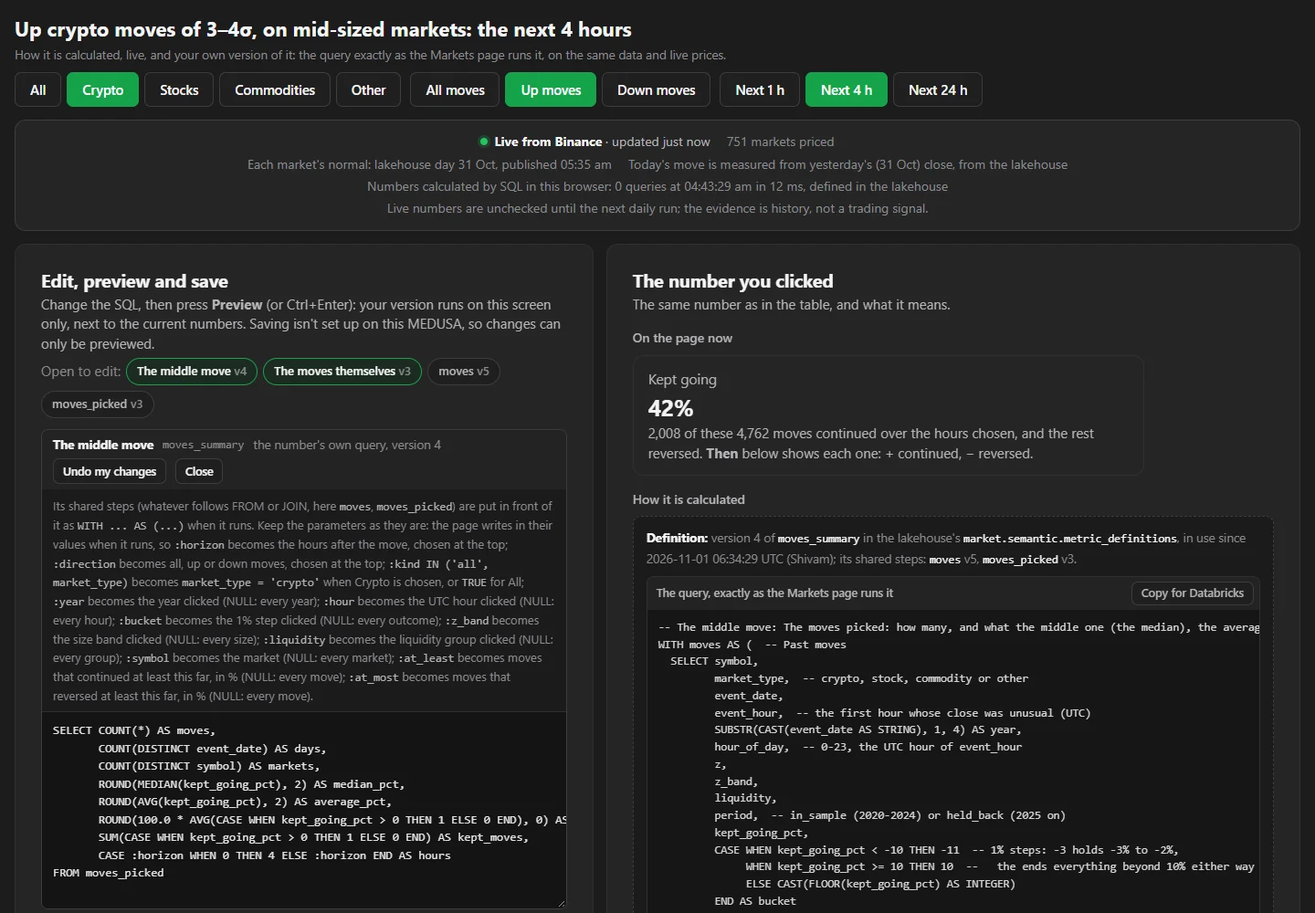
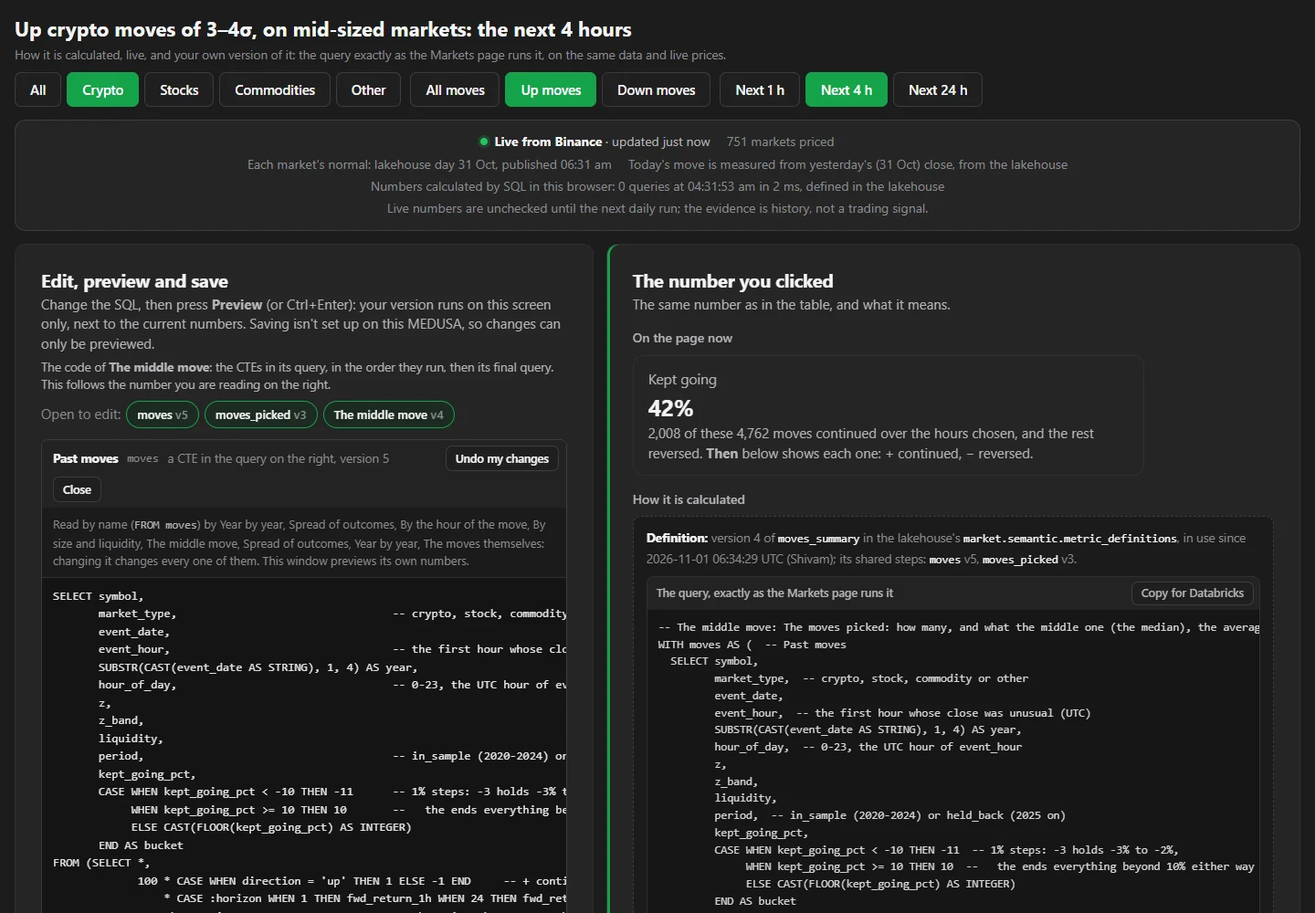
Markets: a Bad day column, and a window's editor shows only the query beside it

Changed region(s): [[0.0312, 0.372, 0.4375, 1.0], [0.2812, 0.186, 0.7188, 0.217], [0.3125, 0.806, 0.4062, 0.837]]

diff --git a/public/markets.js b/public/markets.js
@@ -24,7 +24,7 @@
 // Each ‹› button opens one number's or graph's calculation in its own window (markets-window.html):
 // the same code with its own data, engine and live prices, running only that window's queries.
 
-import { DEFINITIONS } from './markets-metrics.js?v=12';
+import { DEFINITIONS } from './markets-metrics.js?v=13';
 import { chartHtml, chartColumns, drillAttrs } from './markets-charts.js?v=4';
 
 const RULE = { z: 3 };
@@ -269,7 +269,7 @@ const S = {
   win: null,                                         // in a ‹› window: {panel, ids, symbol}
   // A window's editor: definition id -> the text typed in its box; the ids whose box is open; the
   // edits being previewed (id -> SQL, or null); why a preview didn't start or stopped.
-  edit: { text: new Map(), open: [], live: null, since: 0, note: null, hist: new Map() },
+  edit: { for: null, text: new Map(), open: [], live: null, since: 0, note: null, hist: new Map() },
   painted: 0, paintTimer: 0, html: new Map(),
 };
 
@@ -802,7 +802,7 @@ function editBox(id) {
   const text = S.edit.text.has(id) ? S.edit.text.get(id) : d.sql;
   const rows = Math.min(30, Math.max(6, text.split('\n').length + 1));
   return `<div class="mkt-edit-box${edited(id) ? ' changed' : ''}" data-box="${esc(id)}">
-    <div class="h"><b>${esc(d.name)}</b><code>${esc(id)}</code><span class="faint">${d.kind === 'model' ? 'a shared step' : 'the number\'s own query'}${d.own ? `, your own version ${d.own.version}` : d.version ? `, version ${d.version}` : ''}</span><span class="sp"></span>
+    <div class="h"><b>${esc(d.name)}</b><code>${esc(id)}</code><span class="faint">${d.kind === 'model' ? 'a CTE in the query on the right' : 'the final query on the right'}${d.own ? `, your own version ${d.own.version}` : d.version ? `, version ${d.version}` : ''}</span><span class="sp"></span>
       ${SRC.mine.canSave && d.from === 'lakehouse' ? `<button class="btn btn-sm" type="button" data-mkt="edit-history" data-def="${esc(id)}">History</button>` : ''}
       <button class="btn btn-sm" type="button" data-mkt="edit-undo" data-def="${esc(id)}">Undo my changes</button>
       <button class="btn btn-sm" type="button" data-mkt="edit-close" data-def="${esc(id)}">Close</button></div>
@@ -875,19 +875,50 @@ function paintEditors() {
   if (el) el.innerHTML = S.edit.open.map(editBox).join('');
 }
 
-/** The definitions a window can edit: its numbers' own queries, then the shared steps they read. */
-function editable() {
-  const out = [...S.win.ids];
-  for (const id of S.win.ids) { try { for (const m of modelsOf(DEFS.get(id).sql)) if (!out.includes(m)) out.push(m); } catch { /* shown when previewed */ } }
-  return out;
+/** What the left side shows for a number: the CTEs in its query, in the order the query on the right
+ * runs them, then its final query. Nothing else. */
+function partsOf(id) {
+  const defs = previewDefs() || DEFS;
+  try { return [...modelsOf(defs.get(id).sql, defs), id]; } catch { return [id]; }   // the problem shows when previewed
+}
+
+/** The left side moves to another number on the right. Changes in the boxes it leaves are kept. */
+function editNumber(id) {
+  if (!S.win || id === S.edit.for || !S.win.ids.includes(id)) return;
+  S.edit.for = id;
+  S.edit.open = partsOf(id);
+  paintEditors();
+  paintEditBar();
+  markNumber();
+}
+
+/** With several numbers on the right, the one the left side is showing. */
+function markNumber() {
+  if (S.win.ids.length < 2) return;
+  document.querySelectorAll('[data-win-id]').forEach((c) => c.classList.toggle('mkt-win-cur', c.dataset.winId === S.edit.for));
+}
+
+/** Side by side, the left side follows the number being read on the right. Never while typing, and not
+ * when the editor is above the results, where changing it would move what is being read. */
+function followScroll() {
+  if (!S.win || S.win.ids.length < 2 || S.edit.scrolling || !matchMedia('(min-width: 1100px)').matches) return;
+  S.edit.scrolling = true;
+  requestAnimationFrame(() => {
+    S.edit.scrolling = false;
+    if (document.activeElement && document.activeElement.matches('#mkt-edit-boxes textarea')) return;
+    const line = innerHeight * 0.4;
+    const card = [...document.querySelectorAll('[data-win-id]')].find((c) => { const r = c.getBoundingClientRect(); return r.top <= line && r.bottom > line; });
+    if (card) editNumber(card.dataset.winId);
+  });
 }
 
 function paintEditBar() {
-  const chips = editable().map((id) => {
+  const chips = partsOf(S.edit.for).map((id) => {
     const d = DEFS.get(id), open = S.edit.open.includes(id);
     return `<button class="mkt-chip" type="button" data-mkt="edit-open" data-def="${esc(id)}" aria-pressed="${open}">${esc(d.kind === 'model' ? id : d.name)}${d.own ? ` <span class="faint">own v${d.own.version}</span>` : d.version ? ` <span class="faint">v${d.version}</span>` : ''}${edited(id) ? ' <span class="mkt-dirty" title="Changed">●</span>' : ''}</button>`;
   }).join('');
   put('mkt-edit-pick', `<span class="faint">Open to edit:</span>${chips}`);
+  put('mkt-edit-for', `The code of <b>${esc(DEFS.get(S.edit.for).name)}</b>: the CTEs in its query, in the order they run, then its final query.${S.win.ids.length > 1 ? ' This follows the number you are reading on the right.' : ''}`);
   const live = S.edit.live;
   const note = S.edit.note;
   put('mkt-edit-status', live
@@ -1182,6 +1213,9 @@ table.mkt-result td, table.mkt-result th { white-space: nowrap; font-family: ui-
   .mkt-edit { position: sticky; top: 12px; max-height: calc(100vh - 24px); overflow: auto; }
 }
 .mkt-edit .card-head { margin-bottom: 10px; }
+.mkt-edit-for { margin: 0 0 8px; font-size: 13.5px; color: var(--text-2); }
+.mkt-win-cur { box-shadow: inset 3px 0 0 var(--green-btn); }
+@media (min-width: 1100px) { .mkt-win-pick { display: none; } }
 .mkt-edit-pick { display: flex; flex-wrap: wrap; gap: 6px; align-items: center; }
 .mkt-chip { height: 30px; padding: 0 11px; border-radius: 99px; border: 1px solid var(--border-2); background: #1f1f1f; color: var(--text-2); font-size: 13px; font-weight: 600; }
 .mkt-chip:hover { color: var(--text); }
@@ -1526,7 +1560,7 @@ function paintAll() {
     vol: (r) => (iVol < 0 ? 0 : num(r[iVol], -1)),
   }[S.sort];
   rows = [...rows].sort((a, b) => key(b) - key(a) || (iSym < 0 ? 0 : String(a[iSym]).localeCompare(String(b[iSym]))));
-  put('mkt-all-sub', `${rows.length} ${KIND_WORD[S.kind]}markets${S.q ? ` matching “${esc(S.q)}”` : ''}; z is today's move in the market's usual daily moves (σ); volume is the last 24 hours against its usual day`);
+  put('mkt-all-sub', `${rows.length} ${KIND_WORD[S.kind]}markets${S.q ? ` matching “${esc(S.q)}”` : ''}; z is today's move in the market's usual daily moves (σ); a bad day is how far it fell on 1 day in 20; volume is the last 24 hours against its usual day`);
   if (!rows.length) { put('mkt-all', '<div class="mkt-empty">No market matches.</div>'); return; }
   const shown = { columns: res.columns, rows: rows.slice(0, S.limit) };
   const table = resultTable(shown, DEFS.get('markets'), {
@@ -1575,6 +1609,7 @@ function marketDetail(sym) {
     html = `<p>${who}: not scored yet${l ? ', yesterday\'s close is missing' : ', no live price yet'}.</p>`;
   } else {
     html = `<p>${who} has moved ${pct(r.today_pct / 100)} since yesterday's close${r.z != null ? `: ${sig(r.z)}, ${Math.abs(r.z).toFixed(1)} times its usual daily move (${Number(r.usual_day_pct).toFixed(2)}%${b ? ` over its last ${b.history_days} days` : ''})` : ''}.${r.direction ? ` Its own group: ${kindPhrase(r.direction, r.z_band, r.liquidity)}${b ? ` (average ${Math.round((b.avg_quote_volume_30d || 0) / 1e6).toLocaleString('en-US')} million USDT a day)` : ''}.` : ''}</p>`;
+    if (r.bad_day_pct != null) html += `<p>A bad day for ${name(sym)} is ${pct(r.bad_day_pct / 100)}: on 1 day in 20 it fell further, judged by its last 30 days. It's a guide for sizing a position, not a limit: days past it typically went 1.3 times as far, and bad days tend to hit many markets at once.</p>`;
     if (r.direction) {
       if (t && !['crypto', 'other'].includes(t.group)) {
         html += `<p class="warn">${name(sym)} is a ${esc(t.group)} perpetual, so this move is <b>not tested</b>. Binance only listed these from December 2025, which leaves no 2020–2024 years to choose a side on, and crypto's patterns can't be assumed to carry over. Insights shows how past moves on these markets went, with the type chosen at the top.</p>`;
@@ -1790,6 +1825,7 @@ function windowShell() {
     <section class="card mkt-edit" aria-label="Edit and preview">
       <div class="card-head"><div><h2>Edit, preview and save</h2><p>Change the SQL, then press <b>Preview</b> (or Ctrl+Enter): your version runs on this screen only, next to the current numbers. <span id="mkt-edit-saves"></span></p></div>
         <button class="btn btn-sm" type="button" data-mkt="defs-reload" hidden title="Read the definitions in use from the lakehouse now, for a change made in Databricks itself">Reload definitions from the lakehouse</button></div>
+      <p class="mkt-edit-for" id="mkt-edit-for"></p>
       <div class="mkt-edit-pick" id="mkt-edit-pick"></div>
       <div id="mkt-edit-boxes"></div>
       <div class="mkt-edit-bar">
@@ -1803,8 +1839,8 @@ function windowShell() {
     </section>
     <div class="mkt-win-out">
       ${ids.map((id, i) => `
-      <section class="card">
-        <div class="card-head"><div>${named ? `<h2 id="mkt-win-name-${i}"></h2>` : ''}<p id="mkt-win-what-${i}"></p></div></div>
+      <section class="card" data-win-id="${esc(id)}">
+        <div class="card-head"><div>${named ? `<h2 id="mkt-win-name-${i}"></h2>` : ''}<p id="mkt-win-what-${i}"></p></div>${ids.length > 1 ? `<button class="btn btn-sm mkt-win-pick" type="button" data-mkt="edit-for" data-def="${esc(id)}">Edit this query</button>` : ''}</div>
         <div id="mkt-win-shown-${i}"></div>
         <h3 class="mkt-win-h">How it is calculated</h3>
         <div class="mkt-src"><div id="mkt-win-head-${i}"></div><div id="mkt-win-live-${i}" class="mkt-hold"></div></div>
@@ -1917,8 +1953,9 @@ function paintWindow() {
   // The editor's boxes are drawn when the definitions arrive (and again if they change, unless the
   // person is typing in one).
   const typing = document.activeElement && document.activeElement.matches('#mkt-edit-boxes textarea');
-  if (S.edit.painted !== S.data.at && !typing) { S.edit.painted = S.data.at; paintEditors(); }
+  if (S.edit.painted !== S.data.at && !typing) { S.edit.painted = S.data.at; S.edit.open = partsOf(S.edit.for); paintEditors(); }
   paintEditBar();
+  markNumber();
   if (panel === 'patterns') put('mkt-win-pat', patternSources());
   ids.forEach((id, i) => {
     const key = winKey(id), d = DEFS.get(id), extra = id === 'market' ? { symbol } : {};
@@ -2205,6 +2242,7 @@ function onEdit(act, id, el) {
   if (act === 'defs-reload') { reloadDefs(); return; }
   if (!DEFS.has(id)) return;
   if (act === 'edit-giveup') { giveUp(id); return; }
+  if (act === 'edit-for') { editNumber(id); document.getElementById('mkt-edit-for').scrollIntoView({ block: 'center' }); return; }
   if (act === 'edit-history') { loadHistory(id); return; }
   if (act === 'edit-hist-close') { S.edit.hist.delete(id); paintHist(id); return; }
   if (act === 'edit-reuse') { reuseVersion(id, el.dataset.scope, Number(el.dataset.v)); return; }
@@ -2342,7 +2380,9 @@ export function renderWindow(el, appApi, { panel, symbol = null, kind = 'all', p
   S.kind = validKind(kind);
   S.dir = validDir(params.dir);
   S.hz = validHz(params.hz);
-  S.edit.open = [...S.win.ids];   // the number's own query is ready to edit
+  S.edit.for = S.win.ids[0];
+  S.edit.open = partsOf(S.edit.for);   // the code of the number on the right is ready to edit
+  addEventListener('scroll', followScroll, { passive: true });
   attach(el);
   // Closing the window, or reloading it, asks first while there are changes (nothing is saved).
   addEventListener('beforeunload', (e) => { if ([...S.edit.text.keys()].some(edited)) { e.preventDefault(); e.returnValue = ''; } });

diff --git a/public/markets-metrics.js b/public/markets-metrics.js
@@ -48,6 +48,7 @@
 
 const Z_TIP = "How many times bigger today's move is than this market's usual daily move (σ). 3σ or more is unusual.";
 const LIQ_TIP = 'Average daily volume over 30 days: large ≥ 100 million USDT, mid ≥ 10 million, small below';
+const BAD_TIP = "How far this market fell on 1 day in 20, judged by its last 30 days. A guide for sizing a position, not a limit: days past it typically went 1.3 times as far.";
 
 const COL = {
   market: { name: 'market', label: 'Market', format: 'market' },
@@ -55,6 +56,7 @@ const COL = {
   today: { name: 'today_pct', label: 'Today', format: 'pct' },
   z: { name: 'z', label: 'z (σ)', format: 'z', title: Z_TIP },
   liquidity: { name: 'liquidity', label: 'Liquidity', format: 'liquidity', title: LIQ_TIP },
+  badDay: { name: 'bad_day_pct', label: 'Bad day', format: 'pct', title: BAD_TIP },
 };
 // A click on an aggregate opens the moves behind it. `fixed` holds what the row doesn't (a column's hours, and
 // `focus`: which number the window leads with, so it opens with the number clicked), `set` adds what it does.
@@ -93,7 +95,7 @@ WHERE b.status <> 'not trading'`,
     id: 'today',
     kind: 'model',
     name: "Today's moves",
-    description: "Every market's move today, its z (the move in its usual daily moves) and its liquidity.",
+    description: "Every market's move today, its z (the move in its usual daily moves), its bad day and its liquidity.",
     sql: `SELECT symbol,
        market_type,
        price,
@@ -102,6 +104,9 @@ WHERE b.status <> 'not trading'`,
             THEN (price / prev_close - 1 - avg_return_30d) / sd_return_30d
        END AS z,                                            -- the move in usual daily moves (σ)
        sd_return_30d,
+       CASE WHEN history_days >= 20 AND sd_return_30d > 0
+            THEN avg_return_30d - 1.645 * sd_return_30d
+       END AS bad_day,                                      -- 1 day in 20 fell further than this
        quote_volume_24h / NULLIF(avg_quote_volume_30d, 0) AS volume_x,   -- the last 24 hours ÷ a usual day
        CASE WHEN avg_quote_volume_30d >= 100000000 THEN 'large'
             WHEN avg_quote_volume_30d >= 10000000 THEN 'mid'
@@ -268,6 +273,7 @@ LIMIT 8`,
     description: 'Today against each market\'s normal. The table\'s search, sort buttons and pages work on this result.',
     columns: [COL.market, COL.price, COL.today, COL.z,
       { name: 'usual_day_pct', label: 'Usual day', format: 'pct_plain', title: "The market's usual daily move (σ) over its last 30 days" },
+      COL.badDay,
       { name: 'volume_x', label: 'Volume', format: 'times', title: 'USDT traded in the last 24 hours ÷ its usual day' },
       COL.liquidity, { name: 'unusual', format: 'hidden' }],
     sql: `SELECT t.symbol AS market,
@@ -275,6 +281,7 @@ LIMIT 8`,
        ROUND(100 * t.move, 2) AS today_pct,
        ROUND(t.z, 1) AS z,
        ROUND(100 * t.sd_return_30d, 2) AS usual_day_pct,  -- its usual daily move (σ)
+       ROUND(100 * t.bad_day, 2) AS bad_day_pct,          -- 1 day in 20 fell further than this
        ROUND(t.volume_x, 1) AS volume_x,
        t.liquidity,
        CASE WHEN f.symbol IS NULL THEN 0 ELSE 1 END AS unusual   -- highlighted when unusual
@@ -288,7 +295,7 @@ WHERE :kind IN ('all', t.market_type)`,
     name: 'One market',
     description: 'Every number in one market\'s row, and its kind of move with the verdicts when it is unusual.',
     columns: [COL.market, COL.price, COL.today, COL.z,
-      { name: 'usual_day_pct', label: 'Usual day', format: 'pct_plain' }, { name: 'volume_x', label: 'Volume', format: 'times' },
+      { name: 'usual_day_pct', label: 'Usual day', format: 'pct_plain' }, COL.badDay, { name: 'volume_x', label: 'Volume', format: 'times' },
       COL.liquidity, { name: 'direction', label: 'Direction' }, { name: 'z_band', label: 'Size band' },
       ...verdictCols.filter((c) => c.format === 'verdict').map(({ sub, ...c }) => ({ ...c, drill: kindDrill({ horizon: c.hours, focus: 'verdict' }) }))],
     sql: `SELECT t.symbol AS market,
@@ -296,6 +303,7 @@ WHERE :kind IN ('all', t.market_type)`,
        ROUND(100 * t.move, 2) AS today_pct,
        ROUND(t.z, 1) AS z,
        ROUND(100 * t.sd_return_30d, 2) AS usual_day_pct,
+       ROUND(100 * t.bad_day, 2) AS bad_day_pct,
        ROUND(t.volume_x, 1) AS volume_x,
        t.liquidity,
        f.direction,                                  -- its kind of move, when unusual

diff --git a/public/app.js b/public/app.js
@@ -1850,7 +1850,7 @@
     const host = $('#markets');
     if (!mktLoad) {
       host.innerHTML = '<div class="loading">Opening Markets…</div>';
-      mktLoad = import('/markets.js?v=24').catch((e) => {
+      mktLoad = import('/markets.js?v=25').catch((e) => {
         mktLoad = null;
         log('markets', `Markets couldn't be opened: ${e.message}`, null, 'error');
         host.innerHTML = `<div class="banner"><div><b>Markets couldn’t be opened.</b> ${esc(e.message)} Reload the page to try again.</div></div>`;

diff --git a/public/markets-window.html b/public/markets-window.html
@@ -8,7 +8,7 @@
 <title>How it is calculated · MEDUSA</title>
 <link rel="icon" href="/favicon.svg?v=2" type="image/svg+xml">
 <link rel="stylesheet" href="/app.css?v=2">
-<script type="module" src="/markets-window.js?v=18"></script>
+<script type="module" src="/markets-window.js?v=19"></script>
 </head>
 <body>
 <main id="mkt-win" class="mkt-win"><div class="loading">Opening…</div></main>

diff --git a/public/markets-window.js b/public/markets-window.js
@@ -7,7 +7,7 @@
 // the Markets page is hidden, on another page or closed. It needs no more than the page does: the
 // signed-in session (the same cookie) and the app's local storage.
 
-import { renderWindow } from './markets.js?v=24';
+import { renderWindow } from './markets.js?v=25';
 
 const root = document.getElementById('mkt-win');
 

diff --git a/public/index.html b/public/index.html
@@ -152,6 +152,6 @@
 <div class="toast" id="toast" role="status" aria-live="polite" hidden></div>
 
 <script src="/stats.js?v=20"></script>
-<script src="/app.js?v=47"></script>
+<script src="/app.js?v=48"></script>
 </body>
 </html>

diff --git a/lakehouse/README.md b/lakehouse/README.md
@@ -93,7 +93,7 @@ drillable into the moves behind it ([step 32](docs/steps/32-insights-graphs.md))
 | [29. Patterns on SQL, release 1.7.0](docs/steps/29-patterns-on-sql-and-release.md) | The Patterns view calculated by three versioned SQL definitions (seeded as version 1 by a second idempotent seed), editable in its window like Today; MEDUSA release 1.7.0 | Done |
 | [30. Catalog layout](docs/steps/30-catalog-layout.md) | One catalog per kind of data and permission boundary: `market` (unchanged), `journal` (private trades), `ops` (logs); every schema, table and column described in Databricks (schemas numbered in the order data flows), every table tagged `domain`, `layer` and `personal_data`, naming rules written down, no renames | Done |
 | [31. Operations logs](docs/steps/31-ops-log-tables.md) | Every lakehouse workflow run in `ops.logs`: `etl_runs` (scheduled or manual, how late, the days loaded) → `etl_jobs` → `etl_steps` (dbt's counts), `etl_errors` (a failed step with the line that says why, each failed dbt check), a `daily_etl_status` view; MEDUSA's page and server errors in `app_events`, copied daily through a read-only export; all append-only, filled back to 19 October | Done |
-| [32. Insights: graphs that look for an edge](docs/steps/32-insights-graphs.md) | **32.1 (done):** graphs that are definitions too (SQL plus a chart spec, drawn as SVG by the page, editable and versioned), drillable into windows by year, hour, outcome, size, liquidity and market; the moves since 2020 and a new `gold.hour_drift` (the market by hour, every year) sent to MEDUSA as one checked gzip file. **32.2.1 (done):** the market's type on each move, a filter that reaches every graph and table, and stocks and commodities shown as not tested. **32.2.2 (done):** the playbook: for each unusual market, what past moves of the same kind did next and how far the worst 5% went, from a new `gold.move_outcomes`. **32.2.3 (done):** crowded or alone, aggressive buying and regime gauges tested on the real moves; none added anything, so none was built; a market's bad day tested well from data the page already holds. **The rest of 32.2:** open interest and the long/short ratio wait for years of history. **32.3:** on-chain data from the free sources | 32.1, 32.2.1, 32.2.2 and 32.2.3 done, the rest of 32.2 next |
+| [32. Insights: graphs that look for an edge](docs/steps/32-insights-graphs.md) | **32.1 (done):** graphs that are definitions too (SQL plus a chart spec, drawn as SVG by the page, editable and versioned), drillable into windows by year, hour, outcome, size, liquidity and market; the moves since 2020 and a new `gold.hour_drift` (the market by hour, every year) sent to MEDUSA as one checked gzip file. **32.2.1 (done):** the market's type on each move, a filter that reaches every graph and table, and stocks and commodities shown as not tested. **32.2.2 (done):** the playbook: for each unusual market, what past moves of the same kind did next and how far the worst 5% went, from a new `gold.move_outcomes`. **32.2.3 (done):** crowded or alone, aggressive buying and regime gauges tested on the real moves; none added anything, so none was built; a **Bad day** column for each market, from data the page already holds. **The rest of 32.2:** open interest and the long/short ratio wait for years of history. **32.3:** on-chain data from the free sources | 32.1, 32.2.1, 32.2.2 and 32.2.3 done, the rest of 32.2 next |
 | [32a. A day that goes missing](docs/steps/32a-missing-days.md) | `gold.missing_days` compares the calendar with the days loaded, a warning test, a warning at the top of the Markets page (and one when the lakehouse falls behind), and a daily catch-up that tries the last 7 days again, so a late day fills itself. Also fixes the Markets tables jumping back when scrolled and selections disappearing | Done |
 | 33. Journal trades in the lakehouse | A daily copy of each account's trades into a private `journal` catalog, journal statistics and trades against the market, published back to MEDUSA | Planned |
 | 34. Lab history from the lakehouse | Backtests on the lakehouse's checked history plus the last hours from Binance, with the dataset recorded in each result | Planned |

diff --git a/README.md b/README.md
@@ -45,12 +45,12 @@ Each market's move today is compared with its own normal, its last 30 days from 
 
 **What similar moves did next is tested, not assumed.** The lakehouse records every unusual move since January 2020 and what the price did over the next 1, 4 and 24 hours, about 21,000 moves, delisted coins included. Each kind of move (direction, size, liquidity) gets a side chosen on 2020 to 2024 only, then checked on the years from 2025, which played no part in the choice, after 0.10% costs and counting days, not moves, because markets move together. On 1 November 2026, 5 of the 60 kinds of move and horizon held up. Everything else says *no pattern*, *did not hold* or *too few*, and stocks and commodities say *not tested*, because they have no 2020 to 2024 years.
 
-- **Today:** breadth, the median move, the markets unusual now with each one's verdict for the next 1, 4 and 24 hours, the day's movers, and every market with search and sorting.
+- **Today:** breadth, the median move, the markets unusual now with each one's verdict for the next 1, 4 and 24 hours, the day's movers, and every market with search and sorting. Each market shows its usual day and a **bad day**: how far it fell on 1 day in 20, judged by its last 30 days, a guide for sizing a position.
 - **Patterns:** every kind of move and its verdict, the patterns that held up, and which markets are in each group right now.
 - **Insights:** graphs that look for an edge, and the **playbook**: for each market unusual now, how many similar moves there were, the middle result over the next 1, 4 and 24 hours, how often they kept going, how far the worst 5% went either way, and the market's own past. The graphs show every market right now, every kind of move at a glance, year by year, the spread of outcomes, by the hour of the move, by size and liquidity, and the whole market by hour of the day.
 - **Choices at the top reach every graph and table they can:** the type of market, up or down moves, and the next 1, 4 or 24 hours. A second click removes a choice, and a line under each graph says which choices it follows.
 - **A click on an aggregate opens what is behind it:** a window with the same number under the same name, what it means, and the moves it summarises.
-- **Every number is SQL.** A small SQLite database inside your browser holds MEDUSA's copies of the lakehouse tables and the live prices, and each card, table and graph is the result of a query on them. The queries are kept, with every version, in the lakehouse (`market.semantic.metric_definitions`). The ‹› button shows a number's query exactly as it ran, its parameters and result, where each table comes from, a copy that returns the same result in MEDUSA's D1 or in Databricks, and CSVs. There the SQL can be **edited**, previewed on your screen and **saved** back to the lakehouse as a new version (the owner's account changes it for everyone; any other account keeps its own), with every earlier version a click away.
+- **Every number is SQL.** A small SQLite database inside your browser holds MEDUSA's copies of the lakehouse tables and the live prices, and each card, table and graph is the result of a query on them. The queries are kept, with every version, in the lakehouse (`market.semantic.metric_definitions`). The ‹› button shows a number's query exactly as it ran, its parameters and result, where each table comes from, a copy that returns the same result in MEDUSA's D1 or in Databricks, and CSVs. Beside it, the left side holds the same query's code, CTE by CTE: there the SQL can be **edited**, previewed on your screen and **saved** back to the lakehouse as a new version (the owner's account changes it for everyone; any other account keeps its own), with every earlier version a click away.
 - **It says when something is missing:** a day the lakehouse doesn't have, or a lakehouse that has fallen behind, shows at the top of the page.
 
 Live prices come straight from Binance to your browser while the page is open; the daily numbers come from MEDUSA. Like every page, it needs a signed-in account. Live numbers are unchecked until the next daily run, and the evidence is history, not a trading signal.

diff --git a/docs/issue-log.md b/docs/issue-log.md
@@ -16,6 +16,7 @@ The entries before 2026-10-31 were written afterwards, from the records of the w
 
 | Id | Reported | Area | What was seen | Kind | State |
 |---|---|---|---|---|---|
+| [42](#issue-42) | 2026-11-02 | Markets | A window's editor showed code that isn't in the query beside it | Bug | Built, waiting to go live |
 | [41](#issue-41) | 2026-11-02 | Docs | GitHub's main page said nothing about the scanner | Bug | Built, waiting to go live |
 | [40](#issue-40) | 2026-11-02 | Markets | The sentence under a clicked number was cut off | Bug | Built, waiting to go live |
 | [39](#issue-39) | 2026-11-01 | Markets | The SQL showed direction = 'up' with Down moves chosen | Explained | Answered |
@@ -59,6 +60,22 @@ The entries before 2026-10-31 were written afterwards, from the records of the w
 | [1](#issue-1) | 2026-09-27 | Local copy | The app kept loading and never opened | Setup | Closed |
 
 ## Details
+
+<a id="issue-42"></a>
+### 42. A window's editor showed code that isn't in the query beside it
+
+- **Seen:** after clicking a bar on *By the hour of the move*, the right side showed the query behind *The middle move*, and the left
+  side showed *Spread of outcomes*, *Year by year* and *The moves themselves* as well, while the CTEs the query really uses sat closed.
+- **Why:** the left side opened every number in the window at once, whichever one was being read, and left the CTEs closed. A window
+  with one number looked right. A window with several, like a click on a graph, didn't.
+- **Change:** the left side now shows one number's code: the CTEs in its query, in the order the query on the right runs them, then
+  its final query, and nothing else. It follows the number being read on the right. It doesn't move while text is being typed in it, and
+  changes in a box it leaves are kept. Below 1,100 pixels the editor sits above the results, so moving it would shift the page: there, an
+  **Edit this query** button on each number does it instead. Every window shares this code.
+- **Checked:** all 34 numbers in 23 windows, from Today's cards to the windows a click opens: the left side against the CTEs at the
+  top of the query on the right, in order. 33 matched by name; the other, *Every kind of move at a glance*, writes its three CTEs
+  inside its own query, so they are in its box. Typing held the left side still, and a change survived moving away and back.
+- **State:** built, waiting to go live.
 
 <a id="issue-41"></a>
 ### 41. GitHub's main page said nothing about the scanner

diff --git a/lakehouse/docs/steps/32-insights-graphs.md b/lakehouse/docs/steps/32-insights-graphs.md
@@ -582,15 +582,23 @@ and 1 time in 20 it reached 2.6 times. And bad days come together: on 6.6% of da
 once, so holding several markets doesn't spread that risk.
 
 Markets don't swap places much either: a market's worst 5% in early 2025 and in the months after rank them similarly (rank
-correlation 0.67, 231 markets). Nothing on the page has changed for this yet.
+correlation 0.67, 231 markets).
+
+**Built:** a **Bad day** column in *Every market*, right after *Usual day*, and in a market's details, with a sentence saying what
+it means. `today` works it out, `average − 1.645 × σ`, from 20 days of history like z, and `markets` and `market` show it (seed
+`013_metric_definitions_bad_day.sql`, task `seed_bad_day`). It needs no new table and no migration.
+
+- **Checked on the local page:** the first 50 rows of the table against `gold.coin_baseline`: 49 the same to the cent, 0 different, and
+  1 market too new to have a figure, which shows a dash. Nine queries in 31 ms once the page had loaded. No console or server error.
+- **On the live numbers:** 732 of the 751 trading markets have a figure, from −0.04% to −79.40%, with the middle one at −6.63%. None
+  is above zero. The three largest are young, wild markets, with a usual day above 40%.
 
 ## Next: 32.2 and 32.3
 
 - **Before them:** [step 32a](32a-missing-days.md), the missing-days check, and filling 28 October
   (October's monthly 1-minute file, expected around 2 November, if it holds that day; otherwise the live
   API).
-- **The rest of 32.2:** whether to show a market's bad day. Open interest and the long/short ratio wait until
-  they have years of history (see above).
+- **The rest of 32.2:** open interest and the long/short ratio wait until they have years of history (see above).
 - **32.3, on-chain from the free sources:** DefiLlama (stablecoins, chain TVL, DEX volume, fees),
   CoinMetrics Community (exchange flows, active addresses, MVRV, transactions), mempool.space (Bitcoin
   fees), and the other free APIs surveyed first, loaded by GitHub Actions into landing → bronze → silver

diff --git a/CHANGELOG.md b/CHANGELOG.md
@@ -5,6 +5,8 @@ app's menu and on the sign-in page); each release adds a section here with the s
 
 ## Unreleased
 
+- Markets: a window's editor now shows only the code of the query beside it: its CTEs in the order they run, then its final query. It follows the number being read on the right, where it used to open every number in the window at once.
+- Markets: a **Bad day** column in *Every market* and in a market's details: how far it fell on 1 day in 20, judged by its last 30 days. A guide for sizing a position, not a limit. Tested on 608,106 market-days since 2020: passed on 4.88% of them, against the 5% it should be.
 - Markets: the sentence that says what a clicked number means is shown in full. It was cut off at the end of one line.
 - Documentation: the README now opens with the scanner and the lakehouse: all four parts, sections of their own, a diagram with the live stream and the lakehouse, and real screenshots of Markets.
 - Markets: plain words in sentences, graph legends and tooltips: *continued* and *reversed* for *kept going* and *turned back*. Column names stay as they were. The moves list shows *From 2025* instead of `held_back`, and each window's title says whose moves they are.

diff --git a/lakehouse/docs/glossary.md b/lakehouse/docs/glossary.md
@@ -14,6 +14,7 @@ The data engineering terms used in this project, in plain words.
 | **Audit log** | A record of what happened that is never changed afterwards, so it can be trusted | `ops.logs.etl_runs` and the tables under it |
 | **Auto Loader** | Databricks' incremental file loader: it remembers which files it has loaded and reads only new ones | Bronze pipeline |
 | **Backfill** | Running the pipeline for past dates to load history | `lakehouse-backfill.yml` |
+| **Bad day** | How far a market fell on 1 day in 20, judged by its last 30 days: its average daily return − 1.645 × σ. A guide for sizing a position, not a limit: days past it typically went 1.3 times as far | `today`, the *Bad day* column |
 | **Basis point (bp)** | One hundredth of a percent: 0.01%, or 0.0001 as a fraction | The market by hour of the day, in Insights |
 | **Bitemporal** | Tracking both when something was true in the world and when the warehouse knew it | `dim_coin` after the backfill |
 | **Breadth** | The share of moving coins that went up | `market_daily.breadth` |
